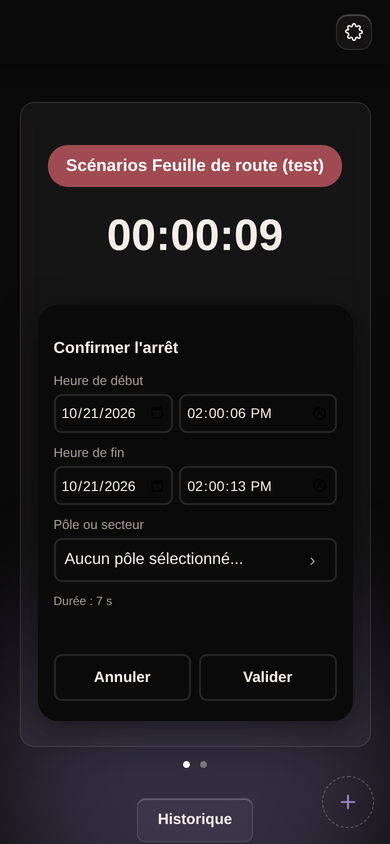
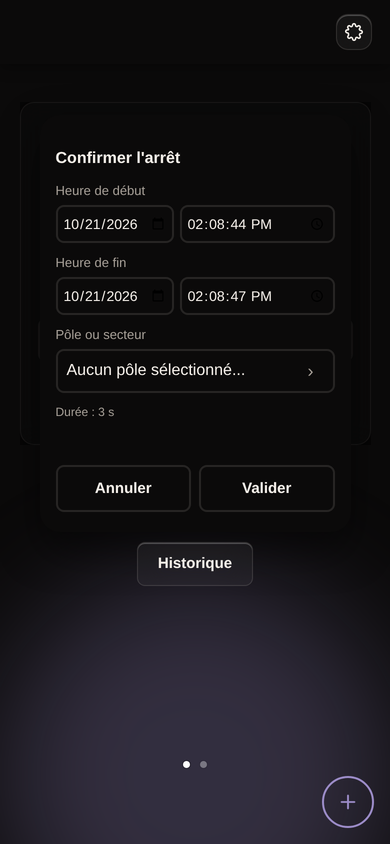
Captures anticipées Chrono : pop-up Confirmer l'arrêt en surcouche (comme l'écran d'Émilien, ~50 px plus bas), 6 captures max
Claude-Session: https://claude.ai/code/session_01XQNV3aMUCMd9beqvUoPMuf

diff --git a/public/css/barre-volets.css b/public/css/barre-volets.css
@@ -114,7 +114,3 @@
 .timesheetBlock.tsYearMode { --cal-row: 78px; }
 .tsYearDots { display: grid; grid-template-columns: repeat(7, 1fr); gap: 3px; padding-right: 8px; }
 .tsYearDots i { display: block; aspect-ratio: 1; border-radius: 50%; background: var(--track-bg); }
-/* Pop-up « Confirmer l'arrêt » (maquette) : dans le flux, sous le chrono ; « Historique » le suit (même écart, menu fermé ou déroulé). */
-#stopConfirmPanel { position: static; inset: auto; display: block; background: none; padding: 12px 0 0; }
-#stopConfirmPanel .stopConfirmCard { max-width: none; max-height: none; overflow: visible; margin: 0 auto; }
-#chronoRunning:has(#stopConfirmPanel:not(.hidden)) #chronoCategoryWrap { display: none; }
